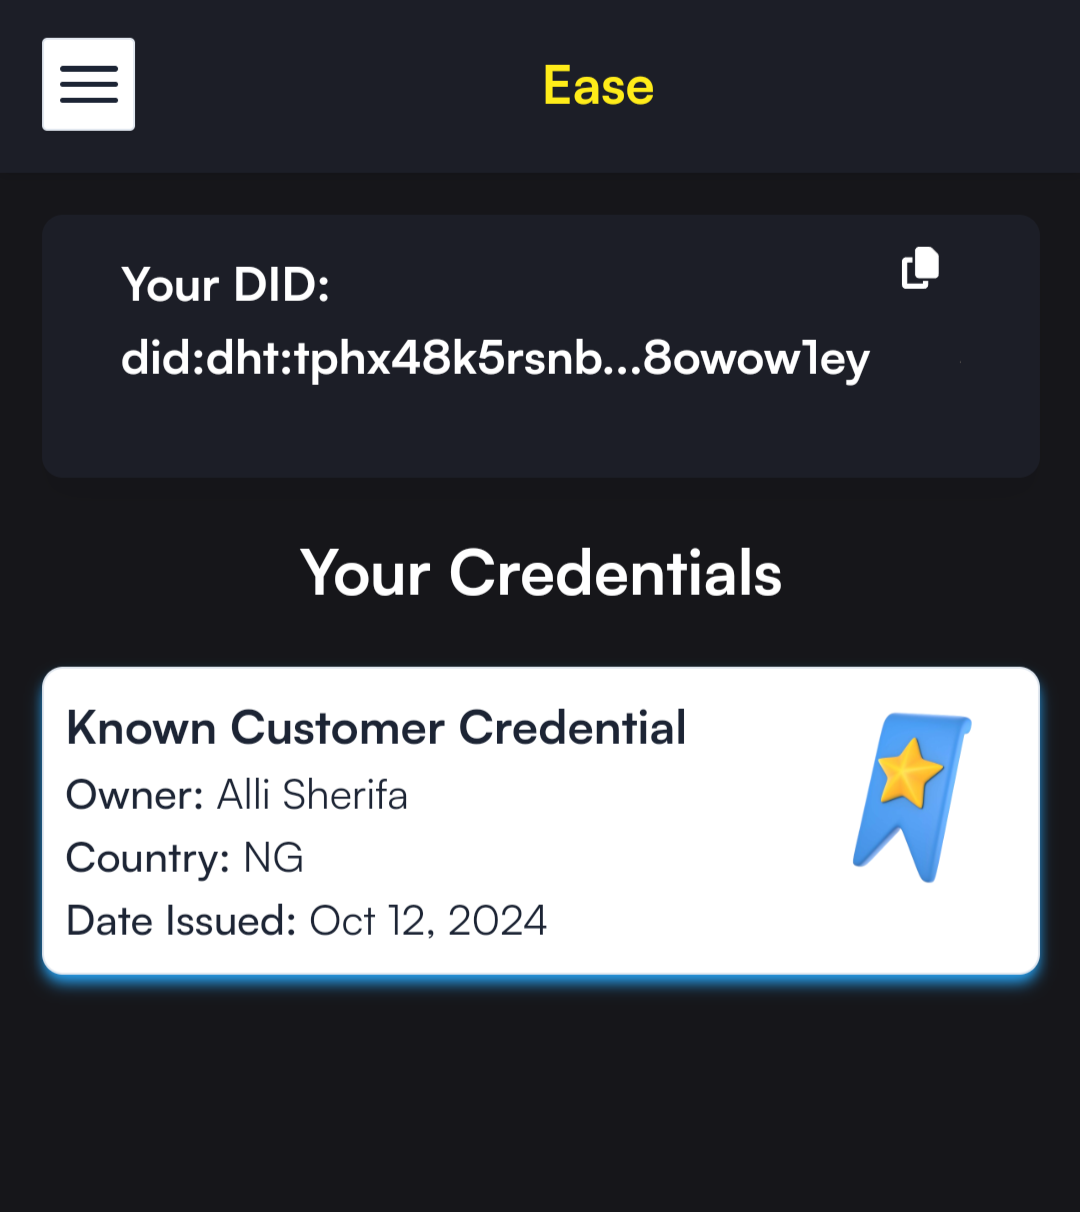
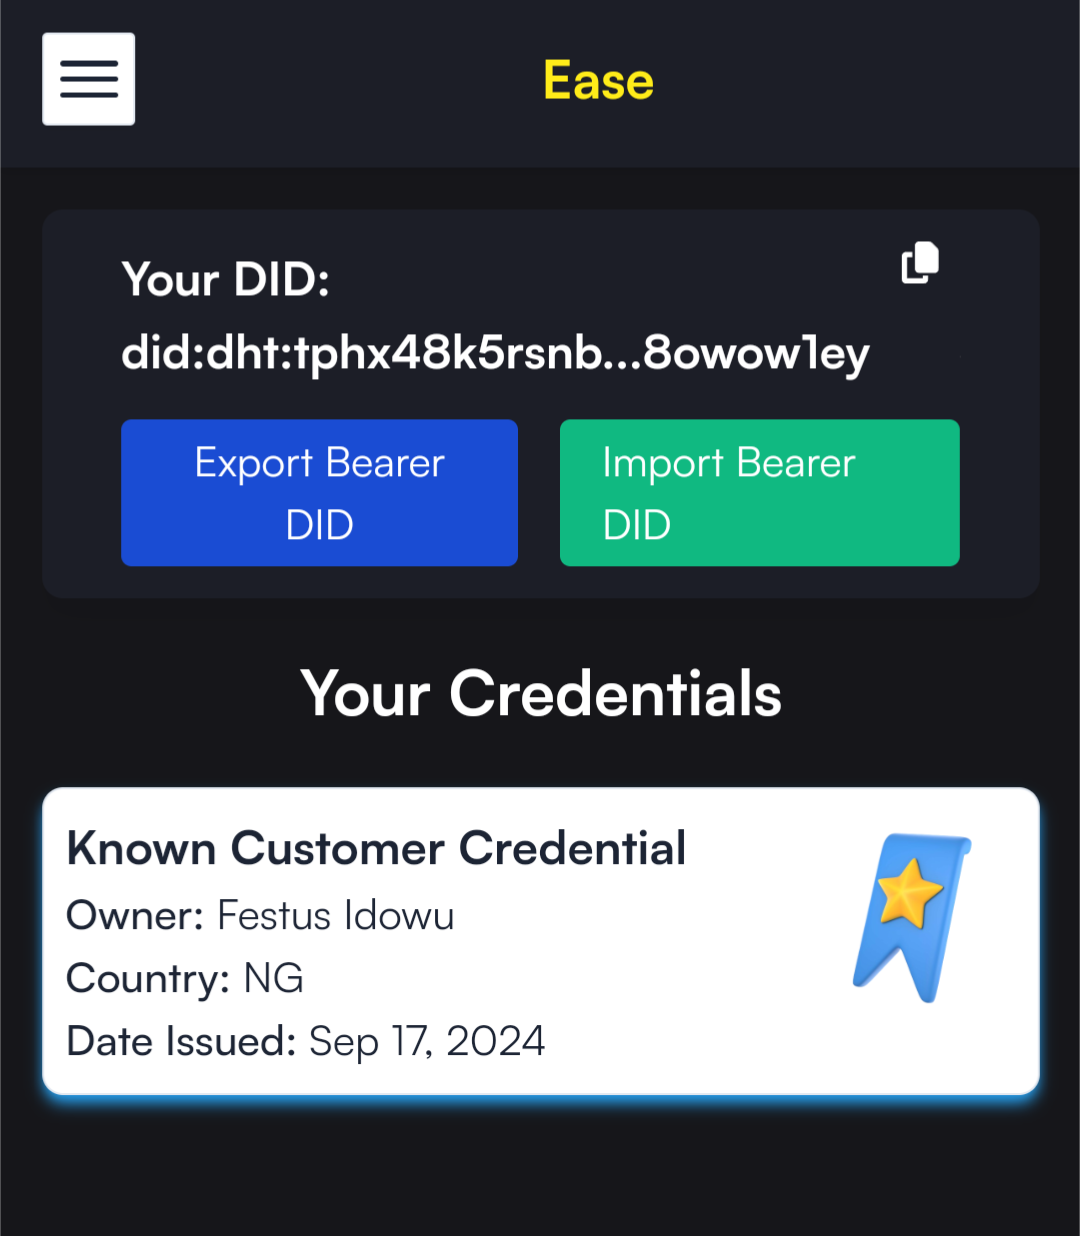
feat: homepage updates :octocat:

diff --git a/src/pages/Homepage.tsx b/src/pages/Homepage.tsx
@@ -2,6 +2,16 @@ import { useState } from "react";
 import PhoneImage from "../images/money.png";
 import ConversionImage from "../images/world.png";
 import NoFeesImage from "../images/rocket.png";
+import Compliance from "../images/compliance.png";
+import Time from "../images/time.png";
+import Support from "../images/support.png";
+import Credentials from "../images/credentials.png";
+import Pfis from "../images/pfis.png";
+import Wallets from "../images/wallets.png";
+import Africa from "../images/africa.png";
+import Fees from "../images/fees.png";
+import Ratings from "../images/ratings.png";
+import Methods from "../images/methods.png"; 
 import { Link, useNavigate } from 'react-router-dom';
 import { currencyIcons } from "../utils/helpers";
 
@@ -23,22 +33,22 @@ const features = [
     {
       title: 'Secure & Compliant',
       description: 'Built on tbDEX SDK, EaseWallet provides secure and compliant cross-border payments using blockchain technology and Decentralized Identifiers (DIDs).',
-      icon: '/icons/security.png', 
+      icon: Compliance,
     },
     {
       title: 'DID & Verifiable Credentials',
       description: 'Easewallet allows users to manage their decentralized identifiers (DIDs) and authenticate identity with Verifiable Credentials (VCs).',
-      icon: '/icons/did.png', 
+      icon: Credentials, 
     },
     {
       title: 'Real-Time Updates',
       description: 'Track your cross-border payments in real-time as they move through RFQs, quotes, and order completion.',
-      icon: '/icons/realtime.png',
+      icon: Time,
     },
     {
     title: '24/7 Support',
     description: '24/7 live support via chat and phone to provide assistance to real humans.',
-    icon: '/icons/support.png',
+    icon: Support,
     },
 ];
 
@@ -53,38 +63,38 @@ const features = [
     },
     {
       question: 'How does Easewallet work?',
-      answer: 'Easewallet works by leveraging blockchain to facilitate secure and efficient cross-border payments, allowing users to transfer funds quickly and cost-effectively.',
+      answer: 'Easewallet works by leveraging tbDEX protocol to facilitate secure and efficient cross-border payments, allowing users to transfer funds quickly and cost-effectively.',
     },
   ];
 
   const benefits = [
       {
-        icon: '/assets/icons/liquidity-providers.svg',
+        icon: Pfis,
         title: 'Multiple Liquidity Providers',
         description: 'Choose the best offer from our sandbox of liquidity providers for the best rates and speeds.',
       },
       {
-        icon: '/assets/icons/low-fees.svg',
+        icon:  Fees,
         title: 'Low Fees',
         description: 'We offer competitive, low fees on cross-border transactions.',
       },
       {
-        icon: '/assets/icons/rating-system.svg', 
+        icon: Ratings,
         title: 'PFI Ratings',
-        description: 'Review and rate Payment Facilitator Institutions (PFIs) after each transaction for transparency.',
+        description: 'Review and rate Participating Financial Institutions (PFIs) after each transaction for transparency.',
       },
       {
-        icon: '/assets/icons/wallet-features.svg', 
+        icon: Wallets,
         title: 'Multi-Currency Wallet',
         description: 'Hold, send, and receive multiple currencies securely within EaseWallet’s built-in wallet.',
       },
     {
-      icon: '/assets/icons/payment-methods.svg', 
+      icon: Methods, 
       title: 'Local payment methods',
       description: 'Instant and localized payment methods including bank transfer and mobile money.',
     },
     {
-      icon: '/assets/icons/designed-for-africa.svg',
+      icon: Africa,
       title: 'Designed for Africa',
       description: 'Designed and built with African customers in mind to drive high conversion.',
     },
@@ -159,7 +169,7 @@ const Homepage = () => {
           </div>
           <div className="lg:w-1/2 pl-10">
             <h2 className="text-3xl font-bold">Manage Multiple Currencies</h2>
-            <p className="text-lg mt-4">Hold, send, and receive funds in USD, GHS, EUR, BTC, and more through our decentralized wallet.</p>
+            <p className="text-lg mt-4">Hold, send, and receive funds in USD, GHS, NGN, KES, BTC, and more through our decentralized wallet.</p>
           </div>
         </section>
 
@@ -167,7 +177,7 @@ const Homepage = () => {
     <section className="flex flex-col lg:flex-row justify-center items-center py-20 bg-white">
       <div className="lg:w-1/2 pl-10">
         <h2 className="text-3xl font-bold">Currency conversion</h2>
-        <p className="text-lg mt-4">Convert money from one currency to another on the Easewallet app at zero fees.</p>
+        <p className="text-lg mt-4">Convert money from one currency to another on the Easewallet app.</p>
       </div>
       <div className="lg:w-1/2">
         <img src={ConversionImage} alt="Currency conversion feature" className="h-100 w-100" />
@@ -179,9 +189,9 @@ const Homepage = () => {
         <img src={NoFeesImage} alt="Say bye-bye to fees" className="h-100 w-100" />
       </div>
       <div className="lg:w-1/2 pl-10">
-        <h2 className="text-4xl font-bold text-purple-400">Say bye-bye to fees</h2>
+        <h2 className="text-4xl font-bold text-purple-400">Say bye-bye to high fees</h2>
         <p className="text-lg mt-4">
-           Enjoy <span className="bg-white text-black px-2 py-1 rounded">low transfer fees</span> for cross-border payments. We charge a low, transparent flat fee for services.
+           Enjoy low transfer fees for cross-border payments. We charge a low, transparent flat fee for services.
         </p>
       </div>
     </section>

diff --git a/src/utils/AppContext.tsx b/src/utils/AppContext.tsx
@@ -6,8 +6,6 @@ import { PFIs } from './helpers';
 import { TbdexHttpClient } from '@tbdex/http-client';
 import { DidDht } from '@web5/dids'
 
-
-import { toast } from 'react-toastify'; 
 import 'react-toastify/dist/ReactToastify.css'; 
 
 export const AppContext = createContext();
@@ -28,8 +26,6 @@ const ContextProvider = ({ children }) => {
     // const offerings = useQuery(api.offerings.getOfferings);
     const createTransaction = useMutation(api.transactions.createTransaction);
     const Transactions = useQuery(api.transactions.getTransactions);
-    // const userTransactions = useQuery(api.transactions.getUserTransactions, { userId: userId });
-    // const pfiReviews = useQuery(api.reviews.getPfiReviews, { userId: userId });
     const reviews = useQuery(api.reviews.getReviews);
     const createReview = useMutation(api.reviews.createReview);
     const updateTransaction = useMutation(api.transactions.updateTransaction);
@@ -90,8 +86,6 @@ const ContextProvider = ({ children }) => {
     createOfferings,
     createTransaction,
     Transactions,
-    // userTransactions,
-    // pfiReviews,
     reviews,
     createReview,
     updateTransaction,
